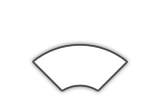
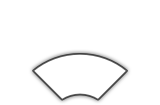
XY Machine Control finished.

Changed region(s): [[0.1875, 0.4375, 0.8125, 0.9688]]

diff --git a/UVDLP/Software/PC/UV_DLP_3dPrinter/UV_DLP_3D_Printer/GUI/CustomGUI/ctlMCXY.cs b/UVDLP/Software/PC/UV_DLP_3dPrinter/UV_DLP_3D_Printer/GUI/CustomGUI/ctlMCXY.cs
@@ -12,6 +12,14 @@ using UV_DLP_3D_Printer._3DEngine;
 
 namespace UV_DLP_3D_Printer.GUI.CustomGUI
 {
+    public enum MachineControlAxis
+    {
+        X = 0,
+        Y = 1,
+        Z = 2,
+        All = 3
+    }
+
     public partial class ctlMCXY : ctlUserPanel
     {
         Image[] mArches;
@@ -20,16 +28,30 @@ namespace UV_DLP_3D_Printer.GUI.CustomGUI
         Rectangle[] mOffsets;
         Color mFrameColor;
         Color [] mArchColors;
+        Color mSelColor;
+        Color mArrowCol;
         PointF[] mArchTxtPos;
-        Image mCentImg;
-        int mSelAxis;
-        int mSelLevel;
+        Image mCentImg, mCentImgSel;
+        Image mTRCornerImg, mTRCornerImgSel;
+        Image mTLCornerImg, mTLCornerImgSel;
+        Image mHomeImg, mhomeImgCent;
+        Image mArrowU, mArrowD, mArrowL, mArrowR;
+        int mSelAxis, mLastSelAxis;
+        int mSelLevel, mLastSelLevel;
         int mCenter;
+        int mButMin, mButMax;
+        int mButHomePos;
+        int mArrowPos;
         double mInRad;
         double mButtRad;
         double mArchWidth;
         int mCircWidth;
         float[] mArchVals;
+
+        public delegate void MotorMoveDelegate(Object sender, MachineControlAxis axis, float val);
+        public event MotorMoveDelegate MotorMove;
+        public delegate void MotorHomeDelegate(Object sender, MachineControlAxis axis);
+        public event MotorHomeDelegate MotorHome;
 
         //int mCircsize;
         public ctlMCXY()
@@ -46,12 +68,18 @@ namespace UV_DLP_3D_Printer.GUI.CustomGUI
             DoubleBuffered = true;
             mSelAxis = 0;
             mSelLevel = 0;
-            mCircWidth = 238;
+            mCircWidth = 256;
             Height = mCircWidth;
             Width = mCircWidth;
             mInRad = 35;
             mButtRad = mCircWidth / 2;
             mArchWidth = 20;
+            mCenter = mCircWidth / 2;
+            mButMin = mCenter - 60;
+            mButMax = mCenter - 10;
+            mButHomePos = 25;
+            mArrowPos = (int)(mCenter + mInRad) / 2;
+
             Font = new Font("Arial", (float)(mArchWidth * 0.75), System.Drawing.FontStyle.Bold, System.Drawing.GraphicsUnit.Pixel, ((byte)(0)));
             UpdateOffsets(mCircWidth);
             UpdateBitmaps();
@@ -68,7 +96,6 @@ namespace UV_DLP_3D_Printer.GUI.CustomGUI
         // d = diameter of big circle in pixels
         void UpdateOffsets(int d)
         {
-            mCenter = d / 2;
             int w = global::UV_DLP_3D_Printer.Properties.Resources.mc_px0.Width;
             int h = global::UV_DLP_3D_Printer.Properties.Resources.mc_px0.Height;
             mOffsets[0] = new Rectangle((d - w) / 2, 0, w, h);
@@ -99,16 +126,31 @@ namespace UV_DLP_3D_Printer.GUI.CustomGUI
                 float vlen = (float)(mInRad + mArchWidth / 2 + i * mArchWidth);
                 mArchTxtPos[i] = new PointF((float)(mCenter - 16 + Math.Cos(vang) * vlen), (float)(mCenter - 10 - Math.Sin(vang) * vlen)); 
             }
+            mArrowCol = Color.FromArgb(120, 200, 255, 200);
             mArches[0] = C2DGraphics.ColorizeBitmapHQ(global::UV_DLP_3D_Printer.Properties.Resources.mc_px3, mArchColors[0]);
             mArches[1] = C2DGraphics.ColorizeBitmapHQ(global::UV_DLP_3D_Printer.Properties.Resources.mc_px2, mArchColors[1]);
             mArches[2] = C2DGraphics.ColorizeBitmapHQ(global::UV_DLP_3D_Printer.Properties.Resources.mc_px1, mArchColors[2]);
             mArches[3] = C2DGraphics.ColorizeBitmapHQ(global::UV_DLP_3D_Printer.Properties.Resources.mc_px0, mArchColors[3]);
-            Color invCol = Color.FromArgb(mFrameColor.A, 255 - mFrameColor.R, 255 - mFrameColor.G, 255 - mFrameColor.B);
-            mArchesSel[0] = C2DGraphics.ColorizeBitmapHQ(global::UV_DLP_3D_Printer.Properties.Resources.mc_px3, invCol);
-            mArchesSel[1] = C2DGraphics.ColorizeBitmapHQ(global::UV_DLP_3D_Printer.Properties.Resources.mc_px2, invCol);
-            mArchesSel[2] = C2DGraphics.ColorizeBitmapHQ(global::UV_DLP_3D_Printer.Properties.Resources.mc_px1, invCol);
-            mArchesSel[3] = C2DGraphics.ColorizeBitmapHQ(global::UV_DLP_3D_Printer.Properties.Resources.mc_px0, invCol);
+            mSelColor = Color.FromArgb(mFrameColor.A, 255 - mFrameColor.R, 255 - mFrameColor.G, 255 - mFrameColor.B);
+            mArchesSel[0] = C2DGraphics.ColorizeBitmapHQ(global::UV_DLP_3D_Printer.Properties.Resources.mc_px3, mSelColor);
+            mArchesSel[1] = C2DGraphics.ColorizeBitmapHQ(global::UV_DLP_3D_Printer.Properties.Resources.mc_px2, mSelColor);
+            mArchesSel[2] = C2DGraphics.ColorizeBitmapHQ(global::UV_DLP_3D_Printer.Properties.Resources.mc_px1, mSelColor);
+            mArchesSel[3] = C2DGraphics.ColorizeBitmapHQ(global::UV_DLP_3D_Printer.Properties.Resources.mc_px0, mSelColor);
+            // center
             mCentImg = C2DGraphics.ColorizeBitmapHQ(global::UV_DLP_3D_Printer.Properties.Resources.mc_cent, mArchColors[3]);
+            mCentImgSel = C2DGraphics.ColorizeBitmapHQ(global::UV_DLP_3D_Printer.Properties.Resources.mc_cent, mSelColor);
+            // corners
+            mTRCornerImg = C2DGraphics.ColorizeBitmapHQ(global::UV_DLP_3D_Printer.Properties.Resources.mc_trcorner, mFrameColor);
+            mTRCornerImgSel = C2DGraphics.ColorizeBitmapHQ(global::UV_DLP_3D_Printer.Properties.Resources.mc_trcorner, mSelColor);
+            mTLCornerImg = C2DGraphics.RotateBmp90deg(mTRCornerImg, 3);
+            mTLCornerImgSel = C2DGraphics.RotateBmp90deg(mTRCornerImgSel, 3);
+            mHomeImg = C2DGraphics.ColorizeBitmapHQ(global::UV_DLP_3D_Printer.Properties.Resources.mc_home, mArchColors[3]);
+            mhomeImgCent = C2DGraphics.ColorizeBitmapHQ(global::UV_DLP_3D_Printer.Properties.Resources.mc_home, mFrameColor);
+            // arrows
+            mArrowU = C2DGraphics.ColorizeBitmapHQ(global::UV_DLP_3D_Printer.Properties.Resources.mc_uparrow, mArrowCol);
+            mArrowR = C2DGraphics.RotateBmp90deg(mArrowU, 1);
+            mArrowD = C2DGraphics.RotateBmp90deg(mArrowU, 2);
+            mArrowL = C2DGraphics.RotateBmp90deg(mArrowU, 3);
         }
 
         // return correct arched image based on axis and level:
@@ -161,13 +203,54 @@ namespace UV_DLP_3D_Printer.GUI.CustomGUI
 
             // center
             int lvl = Math.Abs(mSelLevel) - 1;
-            if ((lvl >= 0) && (lvl <= 3))
+            if (lvl >= 0)
             {
-                int w = mCentImg.Width;
-                int h = mCentImg.Height;
-                gr.DrawImage(mCentImg, mCenter - w / 2, mCenter - h / 2, w, h);
-                DrawText(gr, mArchVals[lvl].ToString(), mCenter, mCenter, mArchColors[0], true);
+                bool isPressed = (mSelAxis == mLastSelAxis) && (mSelLevel == mLastSelLevel);
+                DrawImageCentered(gr, isPressed ? mCentImgSel : mCentImg, mCenter, mCenter);
+                if ((lvl >= 0) && (lvl <= 3))
+                {
+                    DrawText(gr, (mSelAxis == 0) ? "X" : "Y", mCenter, mCenter - Font.Height / 2, mFrameColor, true);
+                    String txt = (mSelLevel < 0) ? "-" : "";
+                    txt += mArchVals[lvl].ToString();
+                    DrawText(gr, txt, mCenter, mCenter + Font.Height / 2, mFrameColor, true);
+                }
+                if (lvl == 4)
+                {
+                    DrawImageCentered(gr, mhomeImgCent, mCenter, mCenter);
+                    DrawText(gr, (mSelAxis == 0) ? "X" : "Y", mCenter, mCenter + 4, mArchColors[3]);
+                }
             }
+
+            // corners
+            bool issel = ((mSelAxis == 1) && (mSelLevel == 5));
+            Image cornImg = issel ? mTRCornerImgSel : mTRCornerImg;
+            gr.DrawImage(cornImg, mCircWidth - mTRCornerImg.Width, 0, mTRCornerImg.Width, mTRCornerImg.Height);
+            DrawImageCentered(gr, mHomeImg, mCircWidth - mButHomePos, mButHomePos);
+            DrawText(gr, "Y", mCircWidth - mButHomePos, mButHomePos + 4, issel ? mSelColor : mFrameColor);
+
+            issel = ((mSelAxis == 0) && (mSelLevel == 5));
+            cornImg = issel ? mTLCornerImgSel : mTLCornerImg;
+            gr.DrawImage(cornImg, 0, 0, mTRCornerImg.Width, mTRCornerImg.Height);
+            DrawImageCentered(gr, mHomeImg, mButHomePos, mButHomePos);
+            DrawText(gr, "X", mButHomePos, mButHomePos + 4, issel ? mSelColor : mFrameColor);
+
+            // arrows
+            Color atcol = Color.FromArgb(120, 0, 0, 0);
+            DrawImageCentered(gr, mArrowU, mCenter, mCenter - mArrowPos);
+            DrawText(gr, "+Y", mCenter, mCenter - mArrowPos, atcol);
+            DrawImageCentered(gr, mArrowR, mCenter + mArrowPos, mCenter);
+            DrawText(gr, "+X", mCenter + mArrowPos, mCenter, atcol);
+            DrawImageCentered(gr, mArrowD, mCenter, mCenter + mArrowPos);
+            DrawText(gr, "-Y", mCenter, mCenter + mArrowPos, atcol);
+            DrawImageCentered(gr, mArrowL, mCenter - mArrowPos, mCenter);
+            DrawText(gr, "-X", mCenter - mArrowPos, mCenter, atcol);
+        }
+
+        void DrawImageCentered(Graphics gr, Image img, int x, int y)
+        {
+            int w = img.Width;
+            int h = img.Height;
+            gr.DrawImage(img, x - w / 2, y - h / 2, w, h);
         }
 
         void DrawText(Graphics gr, string str, float x, float y, Color col, bool outline = false)
@@ -192,7 +275,15 @@ namespace UV_DLP_3D_Printer.GUI.CustomGUI
             if (rad > mButtRad)
             {
                 // handle corner buttons
-                return 0;
+                if ((y < mButMin) || (y > mButMax) || (x < -mButMax) || (x > mButMax))
+                    return 0;
+                if (x < -mButMin)
+                    axis = 0;
+                else if (x > mButMin)
+                    axis = 1;
+                else
+                    return 0;
+                return 5;
             }
             rad = (rad - mInRad) / mArchWidth;
             if (rad < 0)
@@ -232,6 +323,42 @@ namespace UV_DLP_3D_Printer.GUI.CustomGUI
                 mSelLevel = level;
                 Invalidate();
             }
+        }
+
+        protected override void OnMouseDown(MouseEventArgs e)
+        {
+            base.OnMouseDown(e);
+            if (e.Button != System.Windows.Forms.MouseButtons.Left)
+                return;
+            mLastSelAxis = mSelAxis;
+            mLastSelLevel = mSelLevel;
+            Invalidate();
+        }
+
+        protected override void OnMouseUp(MouseEventArgs e)
+        {
+            base.OnMouseUp(e);
+            if (e.Button != System.Windows.Forms.MouseButtons.Left)
+                return;
+            int lvl = Math.Abs(mSelLevel) - 1;
+            if (lvl < 0)
+                return;
+            if ((mLastSelLevel == mSelLevel) && (mLastSelAxis == mSelAxis))
+            {
+                if ((lvl >=0) && (lvl <= 3) && (MotorMove != null))
+                {
+                    float res = mArchVals[lvl];
+                    if (mSelLevel < 0)
+                        res = -res;
+                    MotorMove(this, (mSelAxis == 0) ? MachineControlAxis.X : MachineControlAxis.Y, res);
+                }
+                if ((lvl == 4) && (MotorHome != null))
+                {
+                    MotorHome(this, (mSelAxis == 0) ? MachineControlAxis.X : MachineControlAxis.Y);
+                }
+            }
+            mLastSelLevel = 0;
+            Invalidate();
         }
 
         public override void ApplyStyle(ControlStyle ct)

diff --git a/UVDLP/Software/PC/UV_DLP_3dPrinter/UV_DLP_3D_Printer/Properties/Resources.Designer.cs b/UVDLP/Software/PC/UV_DLP_3dPrinter/UV_DLP_3D_Printer/Properties/Resources.Designer.cs
@@ -713,6 +713,13 @@ namespace UV_DLP_3D_Printer.Properties {
             }
         }
         
+        public static System.Drawing.Bitmap mc_home {
+            get {
+                object obj = ResourceManager.GetObject("mc_home", resourceCulture);
+                return ((System.Drawing.Bitmap)(obj));
+            }
+        }
+        
         public static System.Drawing.Bitmap mc_px0 {
             get {
                 object obj = ResourceManager.GetObject("mc_px0", resourceCulture);
@@ -737,6 +744,20 @@ namespace UV_DLP_3D_Printer.Properties {
         public static System.Drawing.Bitmap mc_px3 {
             get {
                 object obj = ResourceManager.GetObject("mc_px3", resourceCulture);
+                return ((System.Drawing.Bitmap)(obj));
+            }
+        }
+        
+        public static System.Drawing.Bitmap mc_trcorner {
+            get {
+                object obj = ResourceManager.GetObject("mc_trcorner", resourceCulture);
+                return ((System.Drawing.Bitmap)(obj));
+            }
+        }
+        
+        public static System.Drawing.Bitmap mc_uparrow {
+            get {
+                object obj = ResourceManager.GetObject("mc_uparrow", resourceCulture);
                 return ((System.Drawing.Bitmap)(obj));
             }
         }

diff --git a/UVDLP/Software/PC/UV_DLP_3dPrinter/UV_DLP_3D_Printer/3DEngine/C2DGraphics.cs b/UVDLP/Software/PC/UV_DLP_3dPrinter/UV_DLP_3D_Printer/3DEngine/C2DGraphics.cs
@@ -346,6 +346,26 @@ namespace UV_DLP_3D_Printer._3DEngine
             return bmp;
         }
 
+        // rotate bitmap 90 deg clockwise nrot times 
+        public static Bitmap RotateBmp90deg(Image srcbmp, int nrot)
+        {
+            Bitmap bmp;
+            if ((nrot & 1) == 1)
+                // 90/270 rotation switch dimentions;
+                bmp = new Bitmap(srcbmp.Height, srcbmp.Width);
+            else
+                bmp = new Bitmap(srcbmp.Width, srcbmp.Height);
+
+            Graphics gfx = Graphics.FromImage(bmp);
+            gfx.TranslateTransform((float)bmp.Width / 2, (float)bmp.Height / 2);
+            gfx.RotateTransform(nrot * 90);
+            gfx.TranslateTransform(-(float)bmp.Width / 2, -(float)bmp.Height / 2);
+            gfx.InterpolationMode = System.Drawing.Drawing2D.InterpolationMode.HighQualityBicubic;
+            gfx.DrawImage(srcbmp, 0, 0, srcbmp.Width, srcbmp.Height);
+            gfx.Dispose();
+            return bmp;
+        }
+
         public void GetImageDim(String name, ref int w, ref int h)
         {
             if (name == null)

diff --git a/UVDLP/Software/PC/UV_DLP_3dPrinter/UV_DLP_3D_Printer/GUI/frmTest.Designer.cs b/UVDLP/Software/PC/UV_DLP_3dPrinter/UV_DLP_3D_Printer/GUI/frmTest.Designer.cs
@@ -34,6 +34,7 @@
             // ctlMCXY1
             // 
             this.ctlMCXY1.BackColor = System.Drawing.Color.Navy;
+            this.ctlMCXY1.Font = new System.Drawing.Font("Arial", 15F, System.Drawing.FontStyle.Bold, System.Drawing.GraphicsUnit.Pixel, ((byte)(0)));
             this.ctlMCXY1.FrameColor = System.Drawing.Color.RoyalBlue;
             this.ctlMCXY1.Gapx = 0;
             this.ctlMCXY1.Gapy = 0;
@@ -43,7 +44,7 @@
             this.ctlMCXY1.Location = new System.Drawing.Point(12, 12);
             this.ctlMCXY1.Margin = new System.Windows.Forms.Padding(8, 7, 8, 7);
             this.ctlMCXY1.Name = "ctlMCXY1";
-            this.ctlMCXY1.Size = new System.Drawing.Size(238, 238);
+            this.ctlMCXY1.Size = new System.Drawing.Size(256, 256);
             this.ctlMCXY1.StyleName = null;
             this.ctlMCXY1.TabIndex = 0;
             // 
